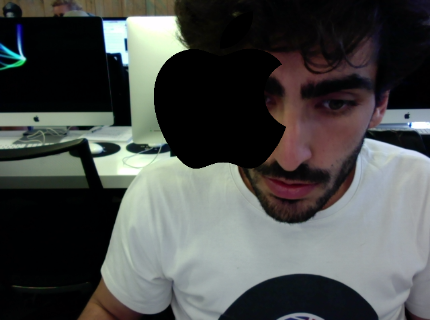
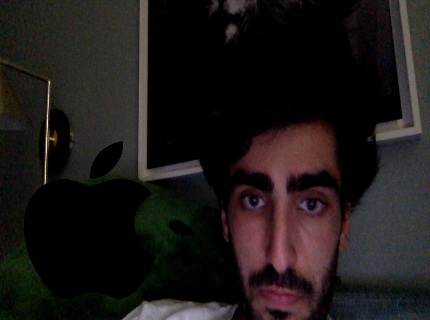
lastest changes

diff --git a/public/js/montage.js b/public/js/montage.js
@@ -58,7 +58,7 @@ function takePicture()
 
 
     // + filter superposition for preview
-    canvas.getContext('2d').drawImage(filter, 130, 0, 180, 180);
+    canvas.getContext('2d').drawImage(filter, 0, 130, 180, 180);
 } 
 
 function savePicture()
@@ -150,4 +150,38 @@ function deleteImg(id_image)
   var canvasData = canvas.toDataURL('image/png');
   req.send('id_image=' + id_image);
   retry();
+}
+
+//import a file
+
+document.getElementById('import_button').onclick = function() {
+  document.getElementById('imgLoader').click();
+};
+
+var fileinput = document.getElementById('imgLoader').addEventListener('change', importPicture, false);
+
+function importPicture()
+{
+  var canvas = document.querySelector('#imported');
+  var context = canvas.getContext("2d");
+  var img = new Image();
+  var file = this.files[0];
+  var reader = new FileReader();
+  if (file)
+  {
+      reader.readAsDataURL(file);
+      reader.onload = function(evt)
+  {
+      if (evt.target.readyState == FileReader.DONE)
+      {
+          img.onload = function()
+          {
+              canvas.width = img.width;
+              canvas.height = img.height;
+              context.drawImage(img, 0, 0);
+          }
+          img.src = evt.target.result;
+      }
+  }
+  }
 }

diff --git a/public/css/style.css b/public/css/style.css
@@ -30,7 +30,7 @@ body {
 /* NAVBAR */
 
 .navbar {
-	z-index: 2;
+	z-index: 20;
 	overflow: hidden;
 	background-color: #333;
 	position: sticky;
@@ -265,21 +265,17 @@ button:hover {
 
 .buttons_list {
 	position: relative;
-	display: inline-block;
-	height: 40px;
-	width: 430px;
+    margin-left: auto;
+    margin-right: auto;
 }
 .snap_button {
 	float: left;
-	width: 100px;
 }
 .retry_button {
 	float: left;
 }
 .import_button {
 	float: right;
-	width: 150px;
-	font-size: 12px;
 }
 
 /* MONTAGE */
@@ -338,8 +334,8 @@ height: 320px;
 }
 .filter_view {
 	position: absolute;
-	top: 0px;
-	left: 130px;
+	top: 130px;
+	left: 0px;
 	width: 180px;
 	height: 180px;
 }

diff --git a/views/viewAccueil.php b/views/viewAccueil.php
@@ -19,10 +19,12 @@
 						echo "<a><b>".$comment->getDate_comment()." - </b></a>";
 						echo "<a>".$comment->getContent()."</a></br></br>";
 					}
-				endforeach;?>
+				endforeach;
+				if ($_SESSION['login']) {?>
 				<form method="POST" action="<?= URL ?>?url=Accueil&submit=comment&id_picture=<?= $image->getId_image() ?>&nb=<?= $page ?>">
 					<input placeholder="Write your comment" type="text" name="comment">
 				</form>
+				<?php } ?>
 				</div>
 
 				<?php
